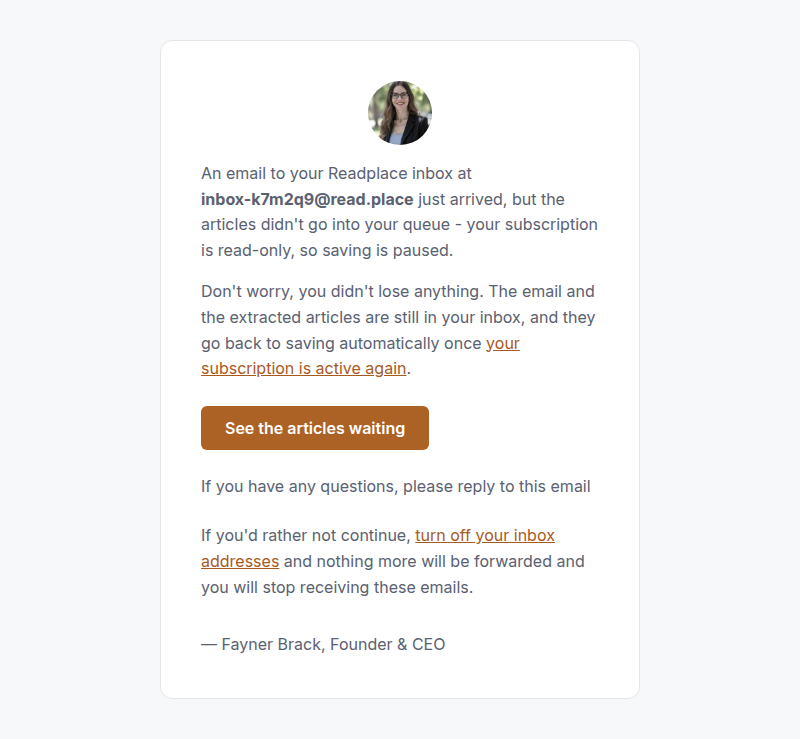
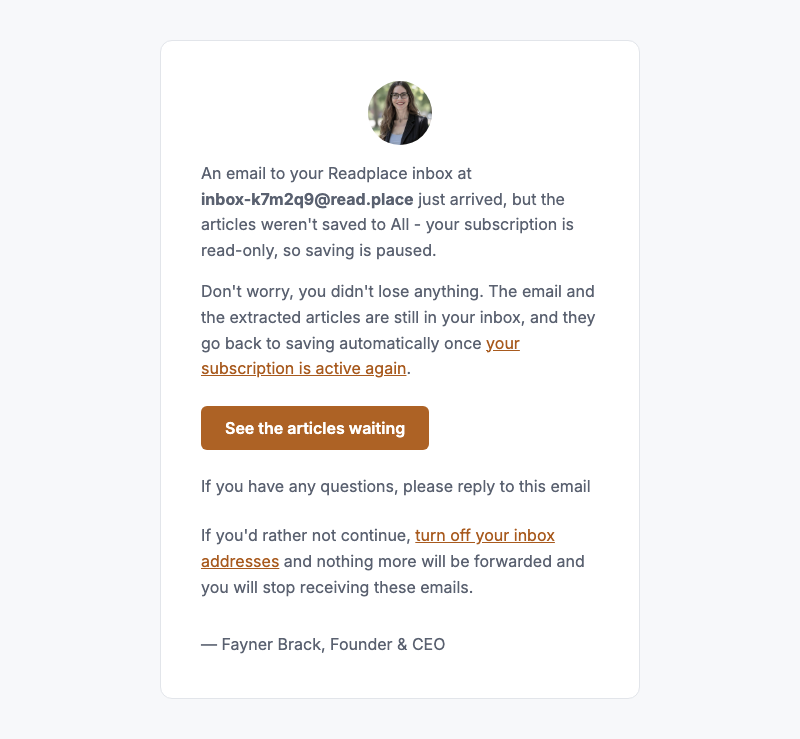
fix(inbox,hutch,@packages/domain): name All as where inbox saves go
The Inbox save controls and two emails still said "queue", a name the
rest of Readplace retired in favour of All. The save button and its
screen-reader labels now read "Save to All", "Saving to All" and
"Saved to All — save again". The toast after a save without JavaScript
reads "Adding to All…", and the live region announces
"Saved to All: {url}". The first-arrival email says Readplace adds the
links "to All, your main readlist", and the saves-held email says the
articles "weren't saved to All".

The save button keeps one width across its unsaved, saving and saved
states. "Save to All" is narrower than the saved state's check icon
plus "Save again", so the hidden width reserve now holds the icon's
slot as well, and the button no longer grows when a save settles.

The inbox visual baselines are regenerated in the pinned Playwright
container, and the customer-email inventory quotes and renders the new
email copy.

diff --git a/projects/inbox/src/runtime/web/pages/inbox/inbox-email-detail.viewmodel.test.ts b/projects/inbox/src/runtime/web/pages/inbox/inbox-email-detail.viewmodel.test.ts
@@ -538,8 +538,8 @@ describe("toInboxEmailDetailViewModel", () => {
 				actions: [
 					{
 						key: "save",
-						label: "Save to queue",
-						ariaLabel: "Save to queue: https://news.example.com/unsub",
+						label: "Save to All",
+						ariaLabel: "Save to All: https://news.example.com/unsub",
 						saveState: "unsaved",
 						iconName: undefined,
 						buttonId: "inbox-skipped-0001-save",
@@ -558,8 +558,8 @@ describe("toInboxEmailDetailViewModel", () => {
 				actions: [
 					{
 						key: "save",
-						label: "Save to queue",
-						ariaLabel: "Save to queue: https://sponsor.example.com/deal",
+						label: "Save to All",
+						ariaLabel: "Save to All: https://sponsor.example.com/deal",
 						saveState: "unsaved",
 						iconName: undefined,
 						buttonId: "inbox-skipped-0002-save",
@@ -645,7 +645,7 @@ describe("toInboxEmailDetailViewModel", () => {
 
 	it("confirms a save in the present tense — the route publishes, a subscriber writes the queue", () => {
 		expect(withConfirmation({ savedConfirmed: true }).statusToastMessage).toBe(
-			"Adding to your queue…",
+			"Adding to All…",
 		);
 	});
 
@@ -653,7 +653,7 @@ describe("toInboxEmailDetailViewModel", () => {
 		expect(
 			withConfirmation({ savedConfirmed: true, feedbackConfirmed: true })
 				.statusToastMessage,
-		).toBe("Adding to your queue…");
+		).toBe("Adding to All…");
 	});
 
 	it("labels an excluded link without a recorded reason generically", () => {
@@ -700,7 +700,7 @@ describe("toInboxEmailDetailViewModel", () => {
 		expect(vm.excluded.links[0].actions).toEqual([
 			expect.objectContaining({
 				label: "Save again",
-				ariaLabel: "Saved to queue \u2014 save again: https://example.com/post",
+				ariaLabel: "Saved to All \u2014 save again: https://example.com/post",
 				saveState: "saved",
 				iconName: "check",
 				href: `/inbox/${encodeURIComponent(SK)}/links/0000/save?utm_source=inbox-excluded-link&utm_medium=internal&utm_content=save-link`,
@@ -720,8 +720,8 @@ describe("toInboxEmailDetailViewModel", () => {
 
 		expect(vm.excluded.links[0].actions).toEqual([
 			expect.objectContaining({
-				label: "Save to queue",
-				ariaLabel: "Save to queue: https://example.com/post",
+				label: "Save to All",
+				ariaLabel: "Save to All: https://example.com/post",
 				saveState: "unsaved",
 				iconName: undefined,
 			}),
@@ -744,7 +744,7 @@ describe("toInboxEmailDetailViewModel", () => {
 				action.saveState,
 				action.label,
 			]),
-		).toEqual([["unsaved", "Save to queue"]]);
+		).toEqual([["unsaved", "Save to All"]]);
 	});
 
 	it("withholds the save action from a skipped link whose URL is unsaveable", () => {

diff --git a/projects/inbox/src/runtime/web/pages/inbox/inbox-link-card.viewmodel.test.ts b/projects/inbox/src/runtime/web/pages/inbox/inbox-link-card.viewmodel.test.ts
@@ -100,7 +100,7 @@ describe("toInboxLinkCardViewModel", () => {
 			shown: SHOWN, linkSaveStates: new Map(), savePollContext: { mode: "static" } });
 
 		expect(vm.actions[0]?.ariaLabel).toBe(
-			"Save to queue: https://destination.test/the-actual-article",
+			"Save to All: https://destination.test/the-actual-article",
 		);
 	});
 
@@ -166,7 +166,7 @@ describe("toInboxLinkCardViewModel", () => {
 		expect(
 			[...crawled.actions, ...crawled.menuActions].map((action) => action.ariaLabel),
 		).toEqual([
-			"Save to queue: https://destination.test/article?ref=nodeweekly",
+			"Save to All: https://destination.test/article?ref=nodeweekly",
 			"Not an article (report): https://destination.test/article?ref=nodeweekly",
 		]);
 	});
@@ -339,7 +339,7 @@ describe("toInboxLinkCardViewModel", () => {
 			const action = saveAction(new Map());
 
 			expect(action.saveState).toBe("unsaved");
-			expect(action.label).toBe("Save to queue");
+			expect(action.label).toBe("Save to All");
 			expect(action.iconName).toBeUndefined();
 		});
 
@@ -355,7 +355,7 @@ describe("toInboxLinkCardViewModel", () => {
 			const action = saveAction(new Map([["https://example.com/post", "failed"]]));
 
 			expect(action.saveState).toBe("unsaved");
-			expect(action.label).toBe("Save to queue");
+			expect(action.label).toBe("Save to All");
 		});
 
 		it("keeps a saved link's action posting the same save route", () => {
@@ -371,7 +371,7 @@ describe("toInboxLinkCardViewModel", () => {
 		it("names the link in the saved button's accessible label", () => {
 			const action = saveAction(new Map([["https://example.com/post", "saved"]]));
 
-			expect(action.ariaLabel).toBe("Saved to queue \u2014 save again: https://example.com/post");
+			expect(action.ariaLabel).toBe("Saved to All \u2014 save again: https://example.com/post");
 		});
 
 		it("keys save state on the stored url, not the crawled destination", () => {
@@ -425,7 +425,7 @@ describe("toInboxLinkCardViewModel", () => {
 				{
 					key: "save",
 					label: "Saving…",
-					ariaLabel: "Saving to queue: https://example.com/post",
+					ariaLabel: "Saving to All: https://example.com/post",
 					saveState: "saving",
 					iconName: undefined,
 					buttonId: "inbox-card-0002-save",
@@ -462,7 +462,7 @@ describe("toInboxLinkCardViewModel", () => {
 
 			expect(vm.cardPollUrl).toBeUndefined();
 			expect(vm.actions[0]?.saveState).toBe("unsaved");
-			expect(vm.actions[0]?.label).toBe("Save to queue");
+			expect(vm.actions[0]?.label).toBe("Save to All");
 		});
 
 		it("keeps polling on the last tick the settle budget allows", () => {

diff --git a/projects/inbox/src/runtime/web/pages/inbox/inbox-article-card.route.test.ts b/projects/inbox/src/runtime/web/pages/inbox/inbox-article-card.route.test.ts
@@ -396,7 +396,7 @@ describe("Inbox link card route", () => {
 
 			const save = saveButton(response.text);
 			expect(save.getAttribute("data-test-save-state")).toBe("unsaved");
-			expect(save.textContent?.trim()).toBe("Save to queue");
+			expect(save.textContent?.trim()).toBe("Save to All");
 			expect(Array.from(save.classList)).toEqual(
 				expect.arrayContaining(["btn", "btn--secondary", "btn--m"]),
 			);
@@ -432,7 +432,7 @@ describe("Inbox link card route", () => {
 			expect([
 				labelStack.getAttribute("data-reserve-1"),
 				labelStack.getAttribute("data-reserve-2"),
-			]).toEqual(["Saving…", "Save to queue"]);
+			]).toEqual(["Saving…", "Save to All"]);
 		});
 
 		it("returns to unsaved once the reader deletes the article from their queue", async () => {
@@ -455,7 +455,7 @@ describe("Inbox link card route", () => {
 
 			const save = saveButton(response.text);
 			expect(save.getAttribute("data-test-save-state")).toBe("unsaved");
-			expect(save.textContent?.trim()).toBe("Save to queue");
+			expect(save.textContent?.trim()).toBe("Save to All");
 		});
 
 		it("keeps a saved link's button posting the same save route, so re-saving still works", async () => {
@@ -576,7 +576,7 @@ describe("Inbox link card route", () => {
 			expect([
 				labelStack.getAttribute("data-reserve-1"),
 				labelStack.getAttribute("data-reserve-2"),
-			]).toEqual(["Save again", "Save to queue"]);
+			]).toEqual(["Save again", "Save to All"]);
 		});
 
 		it("treats a junk cursor as the start of the settle budget instead of polling unbounded", async () => {
@@ -623,7 +623,7 @@ describe("Inbox link card route", () => {
 			expect(save.textContent?.trim()).toBe("Save again");
 			const live = liveStatusOf(response.text);
 			expect(live.getAttribute("hx-swap-oob")).toBe("innerHTML");
-			expect(live.textContent).toBe("Saved to your queue: https://example.com/post");
+			expect(live.textContent).toBe("Saved to All: https://example.com/post");
 		});
 
 		it("offers the save again and announces the outcome once the save is recorded as failed", async () => {
@@ -643,7 +643,7 @@ describe("Inbox link card route", () => {
 			expect(cardOf(response.text).hasAttribute("hx-get")).toBe(false);
 			const save = saveButtonOf(response.text);
 			expect(save.getAttribute("data-test-save-state")).toBe("unsaved");
-			expect(save.textContent?.trim()).toBe("Save to queue");
+			expect(save.textContent?.trim()).toBe("Save to All");
 			expect(liveStatusOf(response.text).textContent).toBe(
 				"Couldn't save https://example.com/post",
 			);

diff --git a/projects/inbox/src/e2e/inbox-flow.e2e-local.ts b/projects/inbox/src/e2e/inbox-flow.e2e-local.ts
@@ -1,6 +1,6 @@
 import assert from "node:assert/strict";
 import type { Page } from "@playwright/test";
-import { expect, test } from "@packages/e2e-harness";
+import { expect, measuredBox, test, waitForBrandFonts } from "@packages/e2e-harness";
 
 /** A fixed instant rather than a boot-relative offset: the list renders a
  * wall-clock-relative label, so a seeded "1 hour ago" would drift between runs. */
@@ -65,6 +65,8 @@ test.describe("Inbox article cards", () => {
 
 		const saveControl = page.locator("#inbox-card-0000 [data-test-save-state]");
 		await expect(saveControl).toHaveAttribute("data-test-save-state", "unsaved");
+		await waitForBrandFonts(page, ["Inter"]);
+		const unsavedBox = await measuredBox(page, "#inbox-card-0000 [data-test-save-state]");
 
 		await saveControl.click();
 
@@ -73,6 +75,11 @@ test.describe("Inbox article cards", () => {
 			"saved",
 		);
 		await expect(page.locator("#inbox-card-0000 [data-test-save-state]")).toContainText("Save again");
+		const savedBox = await measuredBox(page, "#inbox-card-0000 [data-test-save-state]");
+		assert.ok(
+			Math.abs(savedBox.width - unsavedBox.width) <= 0.5,
+			`the save button must keep its width once saved, measured unsaved=${unsavedBox.width} saved=${savedBox.width}`,
+		);
 		expect(page.url()).toBe(urlBeforeSave);
 	});
 });
@@ -97,6 +104,8 @@ test.describe("Inbox skipped links", () => {
 		const urlBeforeSave = page.url();
 		const saveControl = page.locator("#inbox-skipped-0000 [data-test-save-state]");
 		await expect(saveControl).toHaveAttribute("data-test-save-state", "unsaved");
+		await waitForBrandFonts(page, ["Inter"]);
+		const unsavedBox = await measuredBox(page, "#inbox-skipped-0000 [data-test-save-state]");
 
 		await saveControl.click();
 
@@ -106,6 +115,11 @@ test.describe("Inbox skipped links", () => {
 		);
 		await expect(page.locator("#inbox-skipped-0000 [data-test-save-state]")).toContainText(
 			"Save again",
+		);
+		const savedBox = await measuredBox(page, "#inbox-skipped-0000 [data-test-save-state]");
+		assert.ok(
+			Math.abs(savedBox.width - unsavedBox.width) <= 0.5,
+			`the skipped row's save button must keep its width once saved, measured unsaved=${unsavedBox.width} saved=${savedBox.width}`,
 		);
 		expect(page.url()).toBe(urlBeforeSave);
 	});

diff --git a/projects/inbox/src/runtime/web/pages/inbox/inbox-email-detail.route.test.ts b/projects/inbox/src/runtime/web/pages/inbox/inbox-email-detail.route.test.ts
@@ -814,7 +814,7 @@ describe("Inbox email detail Skipped tab", () => {
 		expect(excludedRow.querySelector("[data-test-inbox-feedback-include]")).toBeNull();
 
 		const saveButton = excludedRow.querySelector("[data-test-inbox-excluded-save]");
-		assert(saveButton, "a saveable skipped row must offer Save to queue");
+		assert(saveButton, "a saveable skipped row must offer Save to All");
 		expect(saveButton.getAttribute("id")).toBe("inbox-skipped-0001-save");
 		const saveForm = saveButton.closest("form");
 		assert(saveForm, "save must submit as a form");
@@ -857,7 +857,7 @@ describe("Inbox email detail Skipped tab", () => {
 		expect(saveButton.textContent?.trim()).toBe("Save again");
 		expect(saveButton.classList.contains("inbox-excluded-link__save-button--saved")).toBe(true);
 		expect(saveButton.getAttribute("aria-label")).toBe(
-			"Saved to queue \u2014 save again: https://sponsor.example.com/deal",
+			"Saved to All \u2014 save again: https://sponsor.example.com/deal",
 		);
 		const saveForm = saveButton.closest("form");
 		assert(saveForm, "a saved skipped row still submits the same save form");
@@ -885,7 +885,7 @@ describe("Inbox email detail Skipped tab", () => {
 		const saveButton = doc.querySelector("[data-test-inbox-excluded-save]");
 		assert(saveButton, "a saveable skipped row must offer its save button");
 		expect(saveButton.getAttribute("data-test-save-state")).toBe("unsaved");
-		expect(saveButton.textContent?.trim()).toBe("Save to queue");
+		expect(saveButton.textContent?.trim()).toBe("Save to All");
 		expect(saveButton.classList.contains("btn--secondary")).toBe(true);
 	});
 
@@ -914,7 +914,7 @@ describe("Inbox email detail Skipped tab", () => {
 		const saveButton = doc.querySelector("[data-test-inbox-excluded-save]");
 		assert(saveButton, "a failed skipped row must still offer its save button");
 		expect(saveButton.getAttribute("data-test-save-state")).toBe("unsaved");
-		expect(saveButton.textContent?.trim()).toBe("Save to queue");
+		expect(saveButton.textContent?.trim()).toBe("Save to All");
 	});
 
 	it("says nothing was skipped when every link was kept", async () => {

diff --git a/projects/inbox/src/runtime/web/pages/inbox/inbox-link-save.route.test.ts b/projects/inbox/src/runtime/web/pages/inbox/inbox-link-save.route.test.ts
@@ -171,7 +171,7 @@ describe("Inbox link save route", () => {
 		// Present tense: the route only publishes SubmitLinkCommand — the queue row
 		// is written by a downstream subscriber.
 		expect(doc.querySelector("[data-test-toast-message]")?.textContent?.trim()).toBe(
-			"Adding to your queue…",
+			"Adding to All…",
 		);
 		// data-dismiss is what the global toast script reads to fade the toast out,
 		// so a stale flag can't pin it on screen.
@@ -604,7 +604,7 @@ describe("Inbox link save route answering htmx in place", () => {
 			"[data-test-inbox-live-status]",
 		);
 		assert(live, "a save that settled inside the request must announce itself");
-		expect(live.textContent).toBe("Saved to your queue: https://example.com/post");
+		expect(live.textContent).toBe("Saved to All: https://example.com/post");
 	});
 
 	it("retracts a kept card's recorded failure before retrying, so the retry reads as in flight rather than dead", async () => {
@@ -647,7 +647,7 @@ describe("Inbox link save route answering htmx in place", () => {
 			"[data-test-inbox-live-status]",
 		);
 		assert(live, "a save that settled inside the request must announce itself");
-		expect(live.textContent).toBe("Saved to your queue: https://example.com/post");
+		expect(live.textContent).toBe("Saved to All: https://example.com/post");
 	});
 
 	it("retracts a recorded failure before retrying, so the retry reads as in flight rather than dead", async () => {

diff --git a/projects/hutch/docs/customer-emails/html/automation-saves-held--default.html b/projects/hutch/docs/customer-emails/html/automation-saves-held--default.html
@@ -27,7 +27,7 @@
                   </tr>
                   <tr>
                     <td>
-                      <p style="margin:0 0 16px;font-size:16px;line-height:1.6;color:#5A6170;">An email to your Readplace inbox at <span style="display:inline-block;overflow-wrap:anywhere;word-break:break-word;font-weight:700;">inbox-k7m2q9@read.place</span> just arrived, but the articles didn&#x27;t go into your queue - your subscription is read-only, so saving is paused.</p>
+                      <p style="margin:0 0 16px;font-size:16px;line-height:1.6;color:#5A6170;">An email to your Readplace inbox at <span style="display:inline-block;overflow-wrap:anywhere;word-break:break-word;font-weight:700;">inbox-k7m2q9@read.place</span> just arrived, but the articles weren&#x27;t saved to All - your subscription is read-only, so saving is paused.</p>
                       <p style="margin:0 0 24px;font-size:16px;line-height:1.6;color:#5A6170;">Don't worry, you didn't lose anything. The email and the extracted articles are still in your inbox, and they go back to saving automatically once <a href="https://readplace.com/account?utm_source=automation-saves-held&utm_medium=email&utm_campaign=lapsed-inbox-save&utm_content=reactivate" style="color:#A85A1E;">your subscription is active again</a>.</p>
                       <table role="presentation" cellpadding="0" cellspacing="0">
                         <tr>

diff --git a/projects/inbox/src/runtime/web/pages/inbox/inbox-excluded-link.route.test.ts b/projects/inbox/src/runtime/web/pages/inbox/inbox-excluded-link.route.test.ts
@@ -144,7 +144,7 @@ describe("Inbox skipped row fragment route", () => {
 		expect([
 			labelStack.getAttribute("data-reserve-1"),
 			labelStack.getAttribute("data-reserve-2"),
-		]).toEqual(["Save again", "Save to queue"]);
+		]).toEqual(["Save again", "Save to All"]);
 		expect(button.querySelector(".in-flight-dots")?.getAttribute("aria-hidden")).toBe("true");
 	});
 
@@ -193,7 +193,7 @@ describe("Inbox skipped row fragment route", () => {
 		const live = doc.querySelector("[data-test-inbox-live-status]");
 		assert(live, "a settled save must carry the out-of-band announcement");
 		expect(live.getAttribute("hx-swap-oob")).toBe("innerHTML");
-		expect(live.textContent).toBe(`Saved to your queue: ${LINK_URL}`);
+		expect(live.textContent).toBe(`Saved to All: ${LINK_URL}`);
 	});
 
 	it("offers the save again and announces the outcome once the save is recorded as failed", async () => {
@@ -209,7 +209,7 @@ describe("Inbox skipped row fragment route", () => {
 		expect(row.hasAttribute("hx-get")).toBe(false);
 		const button = saveButton(row);
 		expect(button.getAttribute("data-test-save-state")).toBe("unsaved");
-		expect(button.textContent?.trim()).toBe("Save to queue");
+		expect(button.textContent?.trim()).toBe("Save to All");
 		const live = new JSDOM(response.text).window.document.querySelector(
 			"[data-test-inbox-live-status]",
 		);

diff --git a/projects/hutch/docs/customer-emails/html/automation-saves-held--no-inbox-address.html b/projects/hutch/docs/customer-emails/html/automation-saves-held--no-inbox-address.html
@@ -27,7 +27,7 @@
                   </tr>
                   <tr>
                     <td>
-                      <p style="margin:0 0 16px;font-size:16px;line-height:1.6;color:#5A6170;">An email to your Readplace inbox<span style="display:inline-block;overflow-wrap:anywhere;word-break:break-word;font-weight:700;"></span> just arrived, but the articles didn&#x27;t go into your queue - your subscription is read-only, so saving is paused.</p>
+                      <p style="margin:0 0 16px;font-size:16px;line-height:1.6;color:#5A6170;">An email to your Readplace inbox<span style="display:inline-block;overflow-wrap:anywhere;word-break:break-word;font-weight:700;"></span> just arrived, but the articles weren&#x27;t saved to All - your subscription is read-only, so saving is paused.</p>
                       <p style="margin:0 0 24px;font-size:16px;line-height:1.6;color:#5A6170;">Don't worry, you didn't lose anything. The email and the extracted articles are still in your inbox, and they go back to saving automatically once <a href="https://readplace.com/account?utm_source=automation-saves-held&utm_medium=email&utm_campaign=lapsed-inbox-save&utm_content=reactivate" style="color:#A85A1E;">your subscription is active again</a>.</p>
                       <table role="presentation" cellpadding="0" cellspacing="0">
                         <tr>

diff --git a/projects/hutch/docs/customer-emails/html/inbox-first-arrival--custom-readlist-alias.html b/projects/hutch/docs/customer-emails/html/inbox-first-arrival--custom-readlist-alias.html
@@ -28,7 +28,7 @@
                   <tr>
                     <td>
                       <p style="margin:0 0 16px;font-size:16px;line-height:1.6;color:#5A6170;">The first email to your Readplace inbox at <span style="display:inline-block;overflow-wrap:anywhere;word-break:break-word;font-weight:700;">longreads-p4n8z2@read.place</span> just came through.</p>
-                      <p style="margin:0 0 24px;font-size:16px;line-height:1.6;color:#5A6170;">From here on, every email sent to that address shows up in your inbox, and Readplace pulls the article links out of it and adds them to your queue so you can read them later.</p>
+                      <p style="margin:0 0 24px;font-size:16px;line-height:1.6;color:#5A6170;">From here on, every email sent to that address shows up in your inbox, and Readplace pulls the article links out of it and adds them to All, your main readlist, so you can read them later.</p>
                       <table role="presentation" cellpadding="0" cellspacing="0">
                         <tr>
                           <td style="border-radius:6px;background-color:#AD6225;">

diff --git a/projects/hutch/docs/customer-emails/html/inbox-first-arrival--default.html b/projects/hutch/docs/customer-emails/html/inbox-first-arrival--default.html
@@ -28,7 +28,7 @@
                   <tr>
                     <td>
                       <p style="margin:0 0 16px;font-size:16px;line-height:1.6;color:#5A6170;">The first email to your Readplace inbox at <span style="display:inline-block;overflow-wrap:anywhere;word-break:break-word;font-weight:700;">inbox-k7m2q9@read.place</span> just came through.</p>
-                      <p style="margin:0 0 24px;font-size:16px;line-height:1.6;color:#5A6170;">From here on, every email sent to that address shows up in your inbox, and Readplace pulls the article links out of it and adds them to your queue so you can read them later.</p>
+                      <p style="margin:0 0 24px;font-size:16px;line-height:1.6;color:#5A6170;">From here on, every email sent to that address shows up in your inbox, and Readplace pulls the article links out of it and adds them to All, your main readlist, so you can read them later.</p>
                       <table role="presentation" cellpadding="0" cellspacing="0">
                         <tr>
                           <td style="border-radius:6px;background-color:#AD6225;">

diff --git a/projects/inbox/src/runtime/web/pages/inbox/inbox-excluded-link.viewmodel.test.ts b/projects/inbox/src/runtime/web/pages/inbox/inbox-excluded-link.viewmodel.test.ts
@@ -127,7 +127,7 @@ describe("toInboxExcludedLinkViewModel", () => {
 
 		expect(vm.pollUrl).toBeUndefined();
 		expect(saveActionOf(vm).saveState).toBe("unsaved");
-		expect(saveActionOf(vm).label).toBe("Save to queue");
+		expect(saveActionOf(vm).label).toBe("Save to All");
 	});
 
 	it("renders a page render of an already-saved row as saved, still without polling", () => {
@@ -145,7 +145,7 @@ describe("toInboxExcludedLinkViewModel", () => {
 		expect(saveActionOf(vm)).toEqual(
 			expect.objectContaining({
 				label: "Saving…",
-				ariaLabel: `Saving to queue: ${URL}`,
+				ariaLabel: `Saving to All: ${URL}`,
 				saveState: "saving",
 				iconName: undefined,
 			}),
@@ -164,7 +164,7 @@ describe("toInboxExcludedLinkViewModel", () => {
 
 		expect(vm.pollUrl).toBeUndefined();
 		expect(saveActionOf(vm).saveState).toBe("unsaved");
-		expect(saveActionOf(vm).label).toBe("Save to queue");
+		expect(saveActionOf(vm).label).toBe("Save to All");
 	});
 
 	it("gives up rather than claim Saving… forever once the settle budget is spent", () => {
